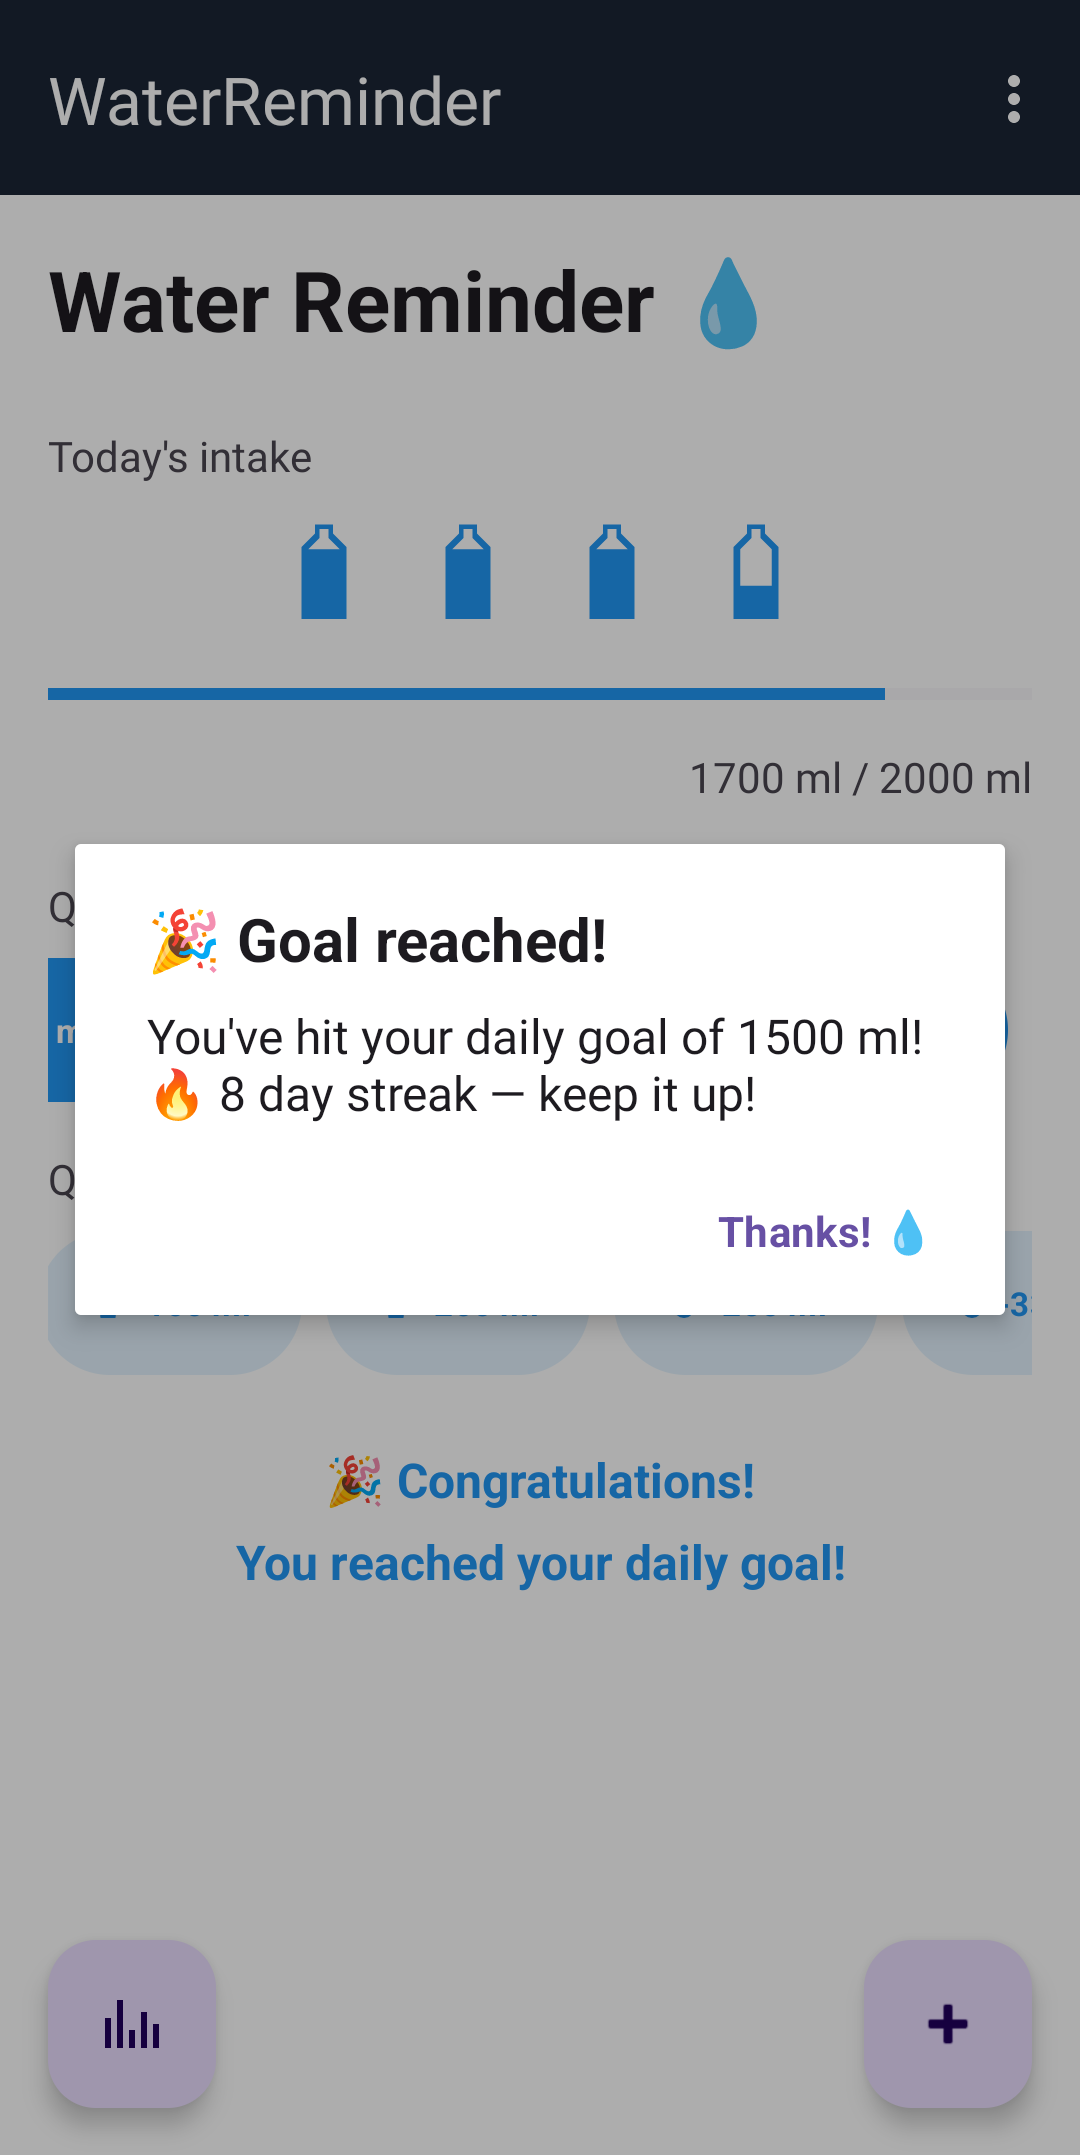
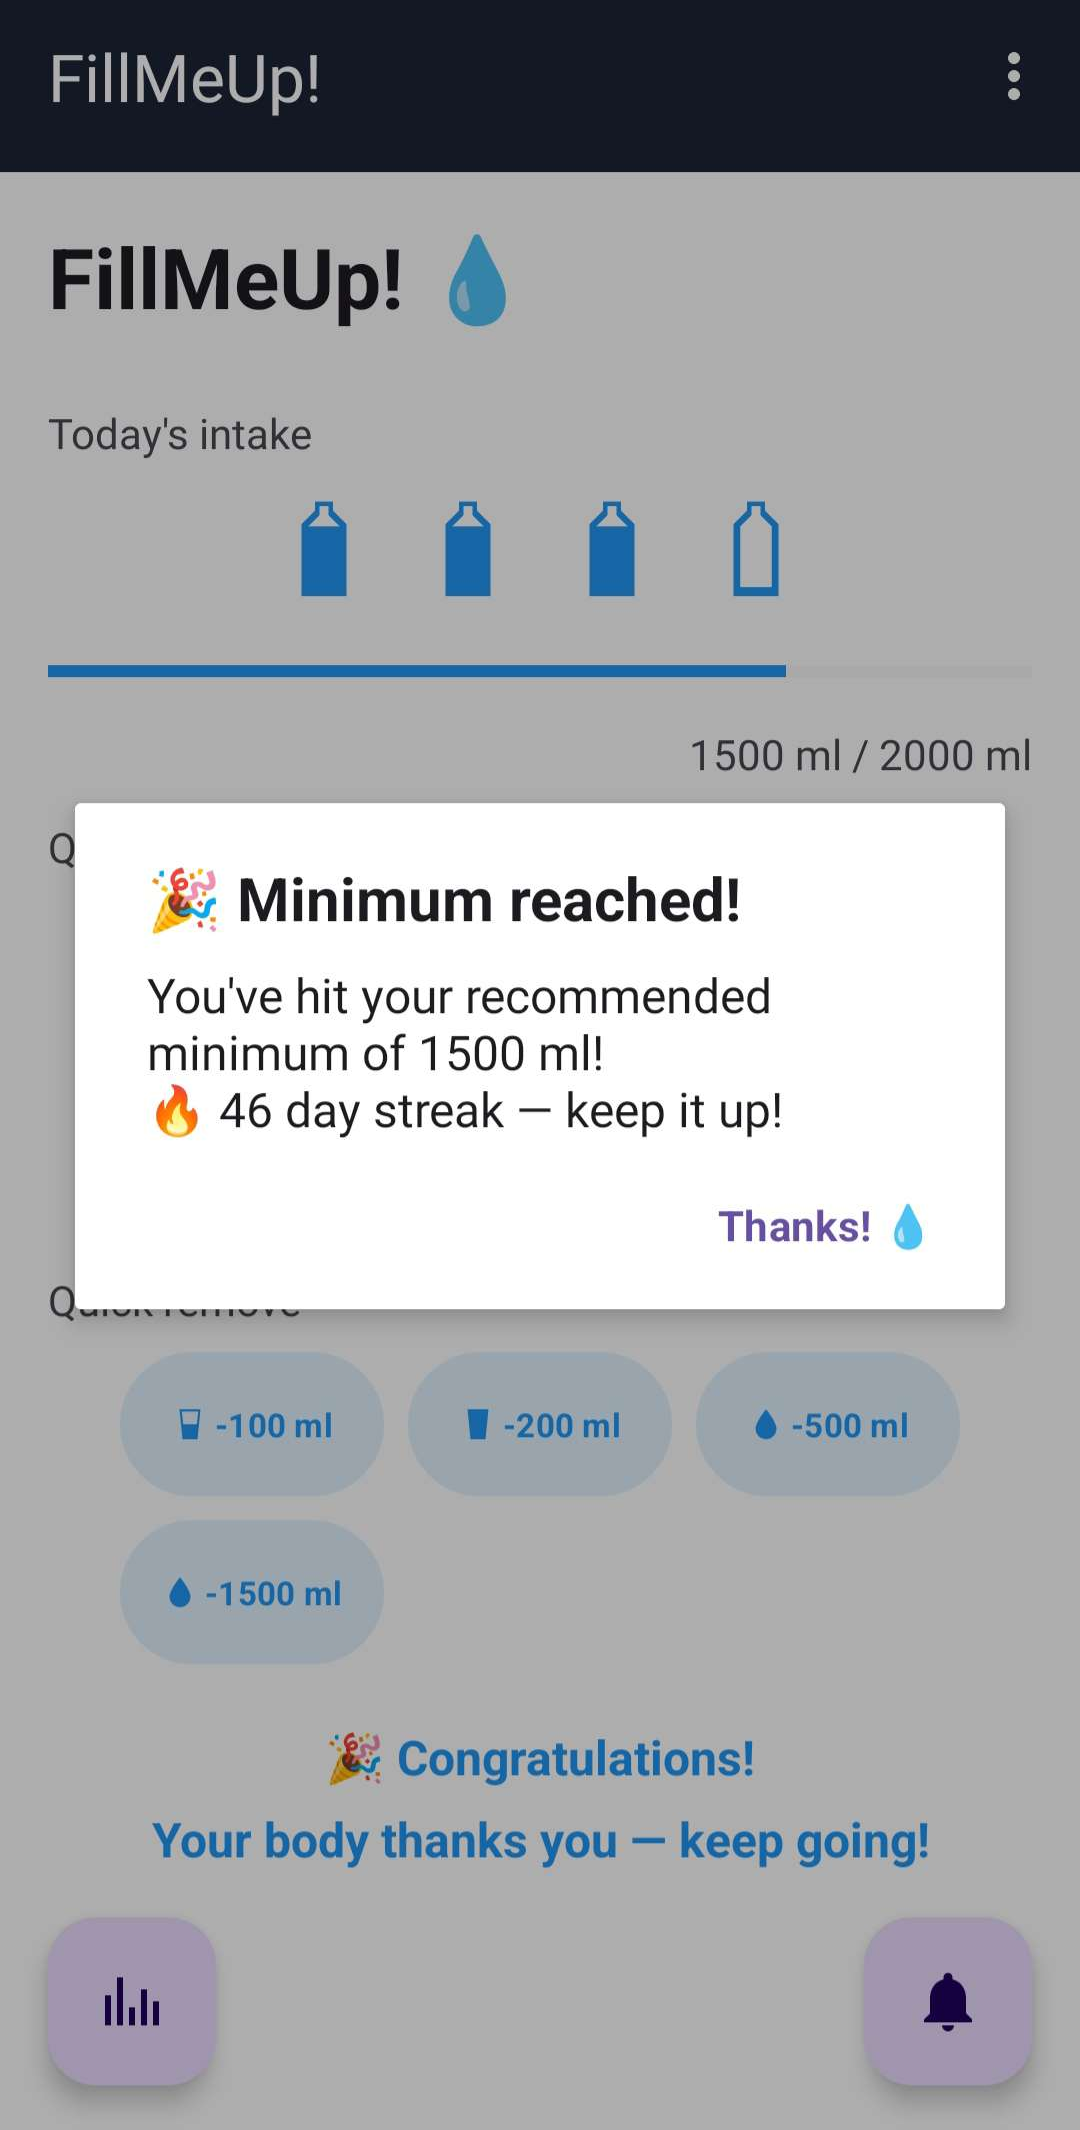
Update png files and version Added contributors Updated readme link with renamed repository

diff --git a/app/src/main/java/com/david/waterreminder/HelpFragment.kt b/app/src/main/java/com/david/waterreminder/HelpFragment.kt
@@ -52,7 +52,7 @@ class HelpFragment : BaseMenuFragment() {
         binding.rowReportProblem.rowTitle.text = getString(R.string.help_section_report)
         binding.rowReportProblem.rowSubtitle.text = getString(R.string.help_row_report_subtitle)
         binding.rowReportProblem.rowContainer.setOnClickListener {
-            startActivity(Intent(Intent.ACTION_VIEW, Uri.parse("https://codeberg.org/DavidCRicardo/WaterReminder/issues")))
+            startActivity(Intent(Intent.ACTION_VIEW, Uri.parse("https://codeberg.org/DavidCRicardo/FillMeUp/issues")))
         }
 
     }

diff --git a/README.md b/README.md
@@ -1,6 +1,6 @@
 # FillMeUp!
 ![Platforms](https://img.shields.io/badge/platforms-Android-2ea44f)
-[![Latest release](https://img.shields.io/gitea/v/release/DavidCRicardo/WaterReminder?gitea_url=https://codeberg.org)](https://codeberg.org/DavidCRicardo/WaterReminder/releases/latest)
+[![Latest release](https://img.shields.io/gitea/v/release/DavidCRicardo/FillMeUp?gitea_url=https://codeberg.org)](https://codeberg.org/DavidCRicardo/FillMeUp/releases/latest)
 [![F-Droid](https://img.shields.io/f-droid/v/com.david.waterreminder?label=F-Droid&logo=fdroid)](https://f-droid.org/pt/packages/com.david.waterreminder/)
 
 [<img src="./fastlane/metadata/android/en-US/images/icon.png" alt="FillMeUp! logo" height="80">](./fastlane/metadata/android/en-US/images/icon.png)

diff --git a/CONTRIBUTORS.md b/CONTRIBUTORS.md
@@ -1,12 +1,8 @@
 # Contributors
 
-Thanks to the people who have contributed fixes, testing, and improvements to FillMeUp!
+Thanks to the people who have contributed fixes, testing, feedback, and suggestions to FillMeUp!
 
 - [numerator](https://codeberg.org/numerator)
-  - Fixed integer overflow in custom amount input.
-  - Added a validation feedback for custom amount and personal goals.
-
 - [Lubla](https://codeberg.org/Lubla)
-  - Suggested UX ideas and improvements.
-  - Suggested Reminder Notification improvements.
-  
+- [eIKpaSrnMoKI](https://codeberg.org/eIKpaSrnMoKI)
+- [yaomtc](https://codeberg.org/yaomtc)
